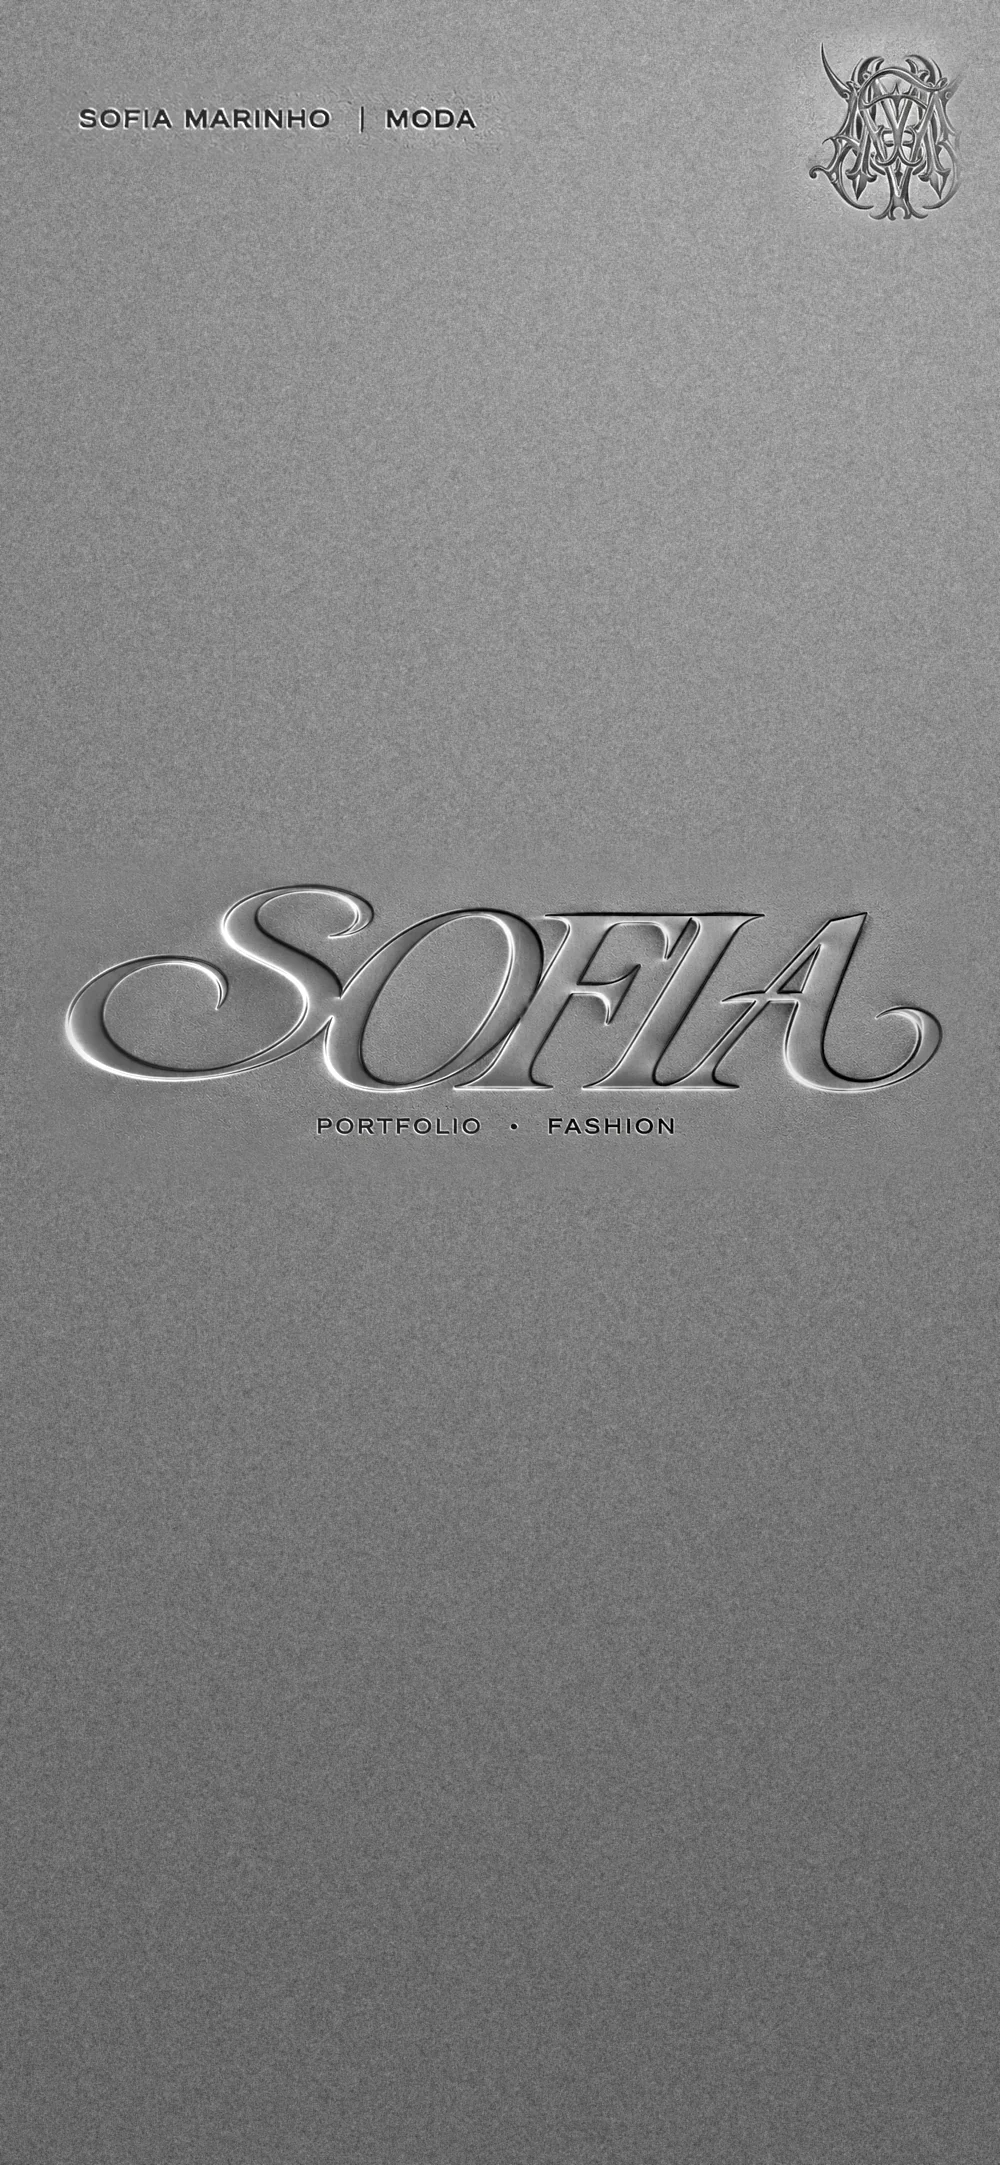
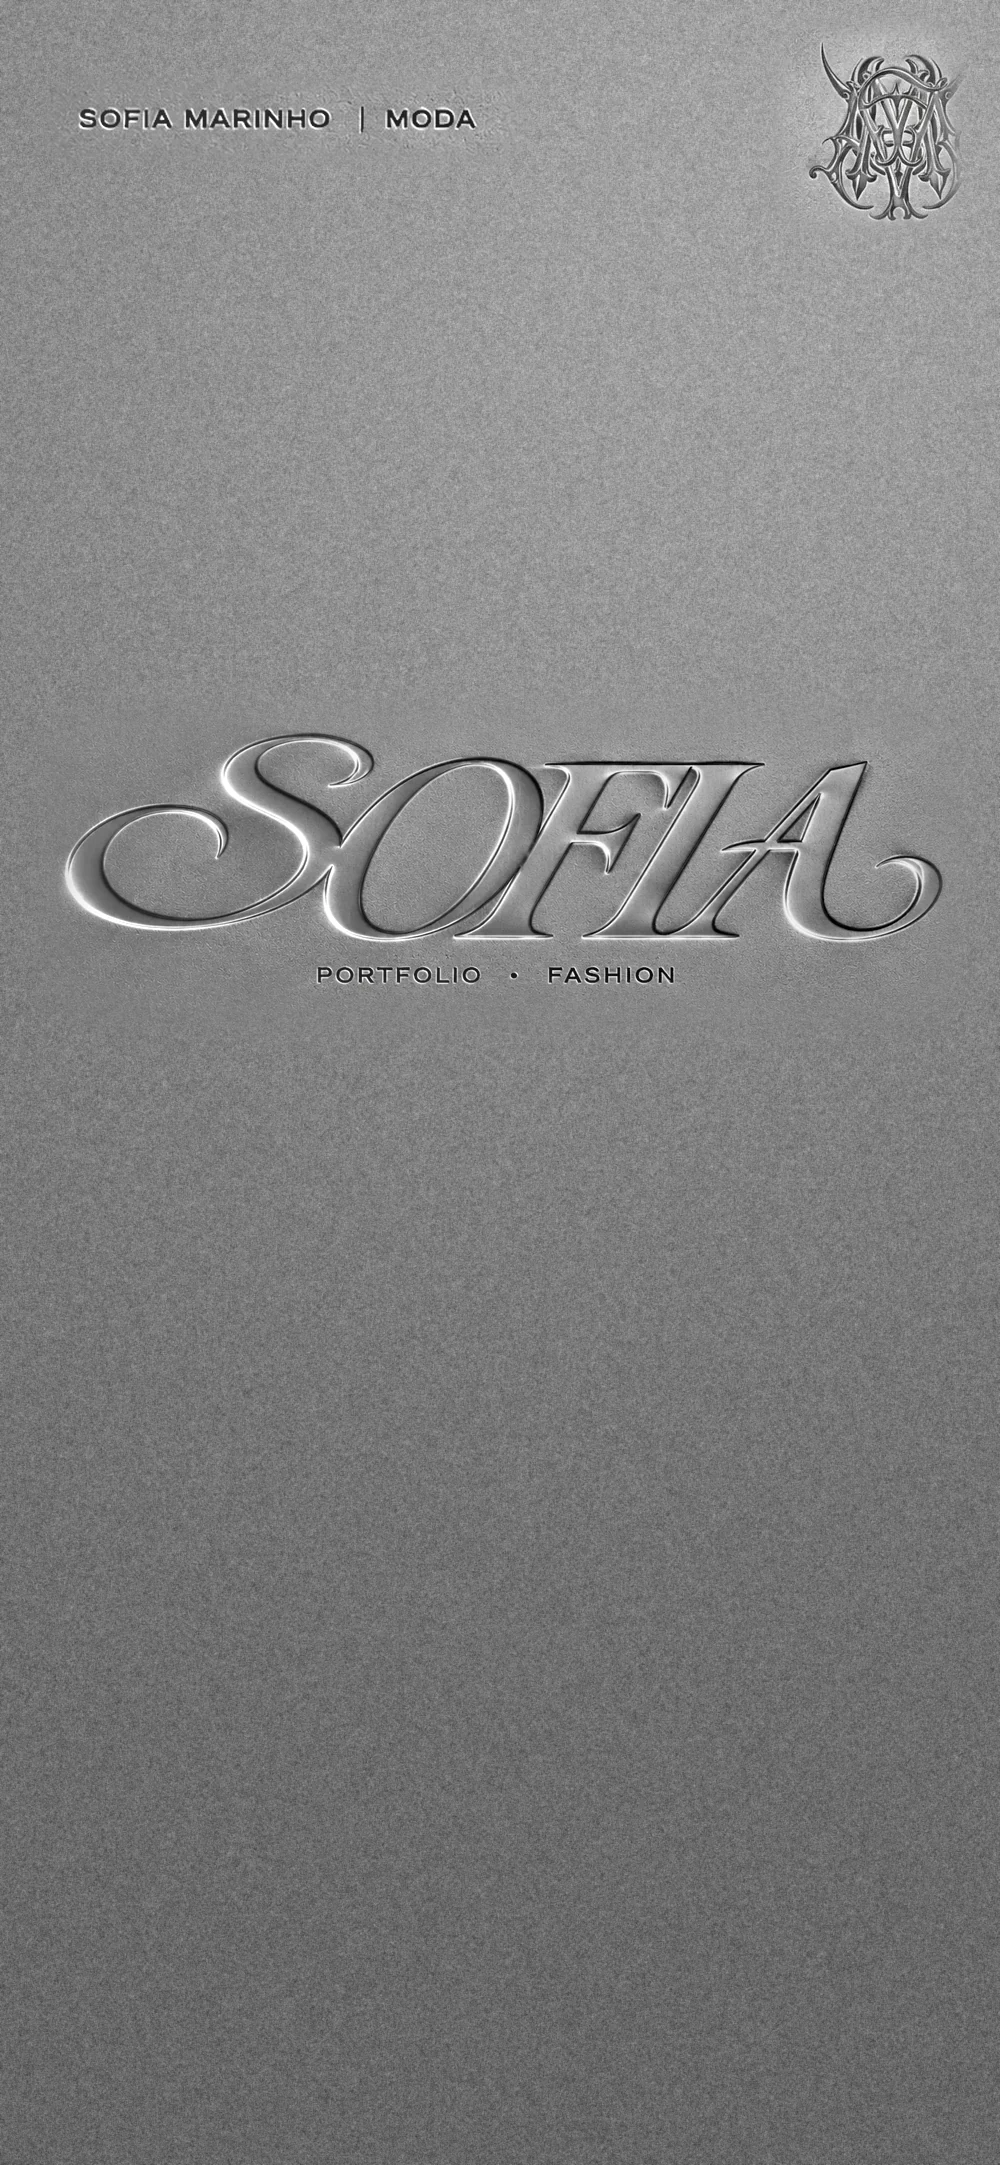
Portfólio: SOFIA mais alto na capa do celular
Claude-Session: https://claude.ai/code/session_01TwcUAkcdnNUaJGVqTisuvo

Changed region(s): [[0.062, 0.3404, 0.961, 0.5261]]

diff --git a/portfolio/index.html b/portfolio/index.html
@@ -38,7 +38,7 @@
     <canvas class="plate__metal" aria-hidden="true"></canvas>
     <h1 class="sr-only">Sofia Marinho — portfólio de moda</h1>
     <picture>
-      <source media="(max-aspect-ratio: 5/4)" srcset="media/capa-celular.webp">
+      <source media="(max-aspect-ratio: 5/4)" srcset="media/capa-celular.webp?v=2">
       <img class="plate__full" src="media/capa.webp" alt="" decoding="async" fetchpriority="high">
     </picture>
     <a class="plate__down emb" href="#projetos">role ↓</a>
